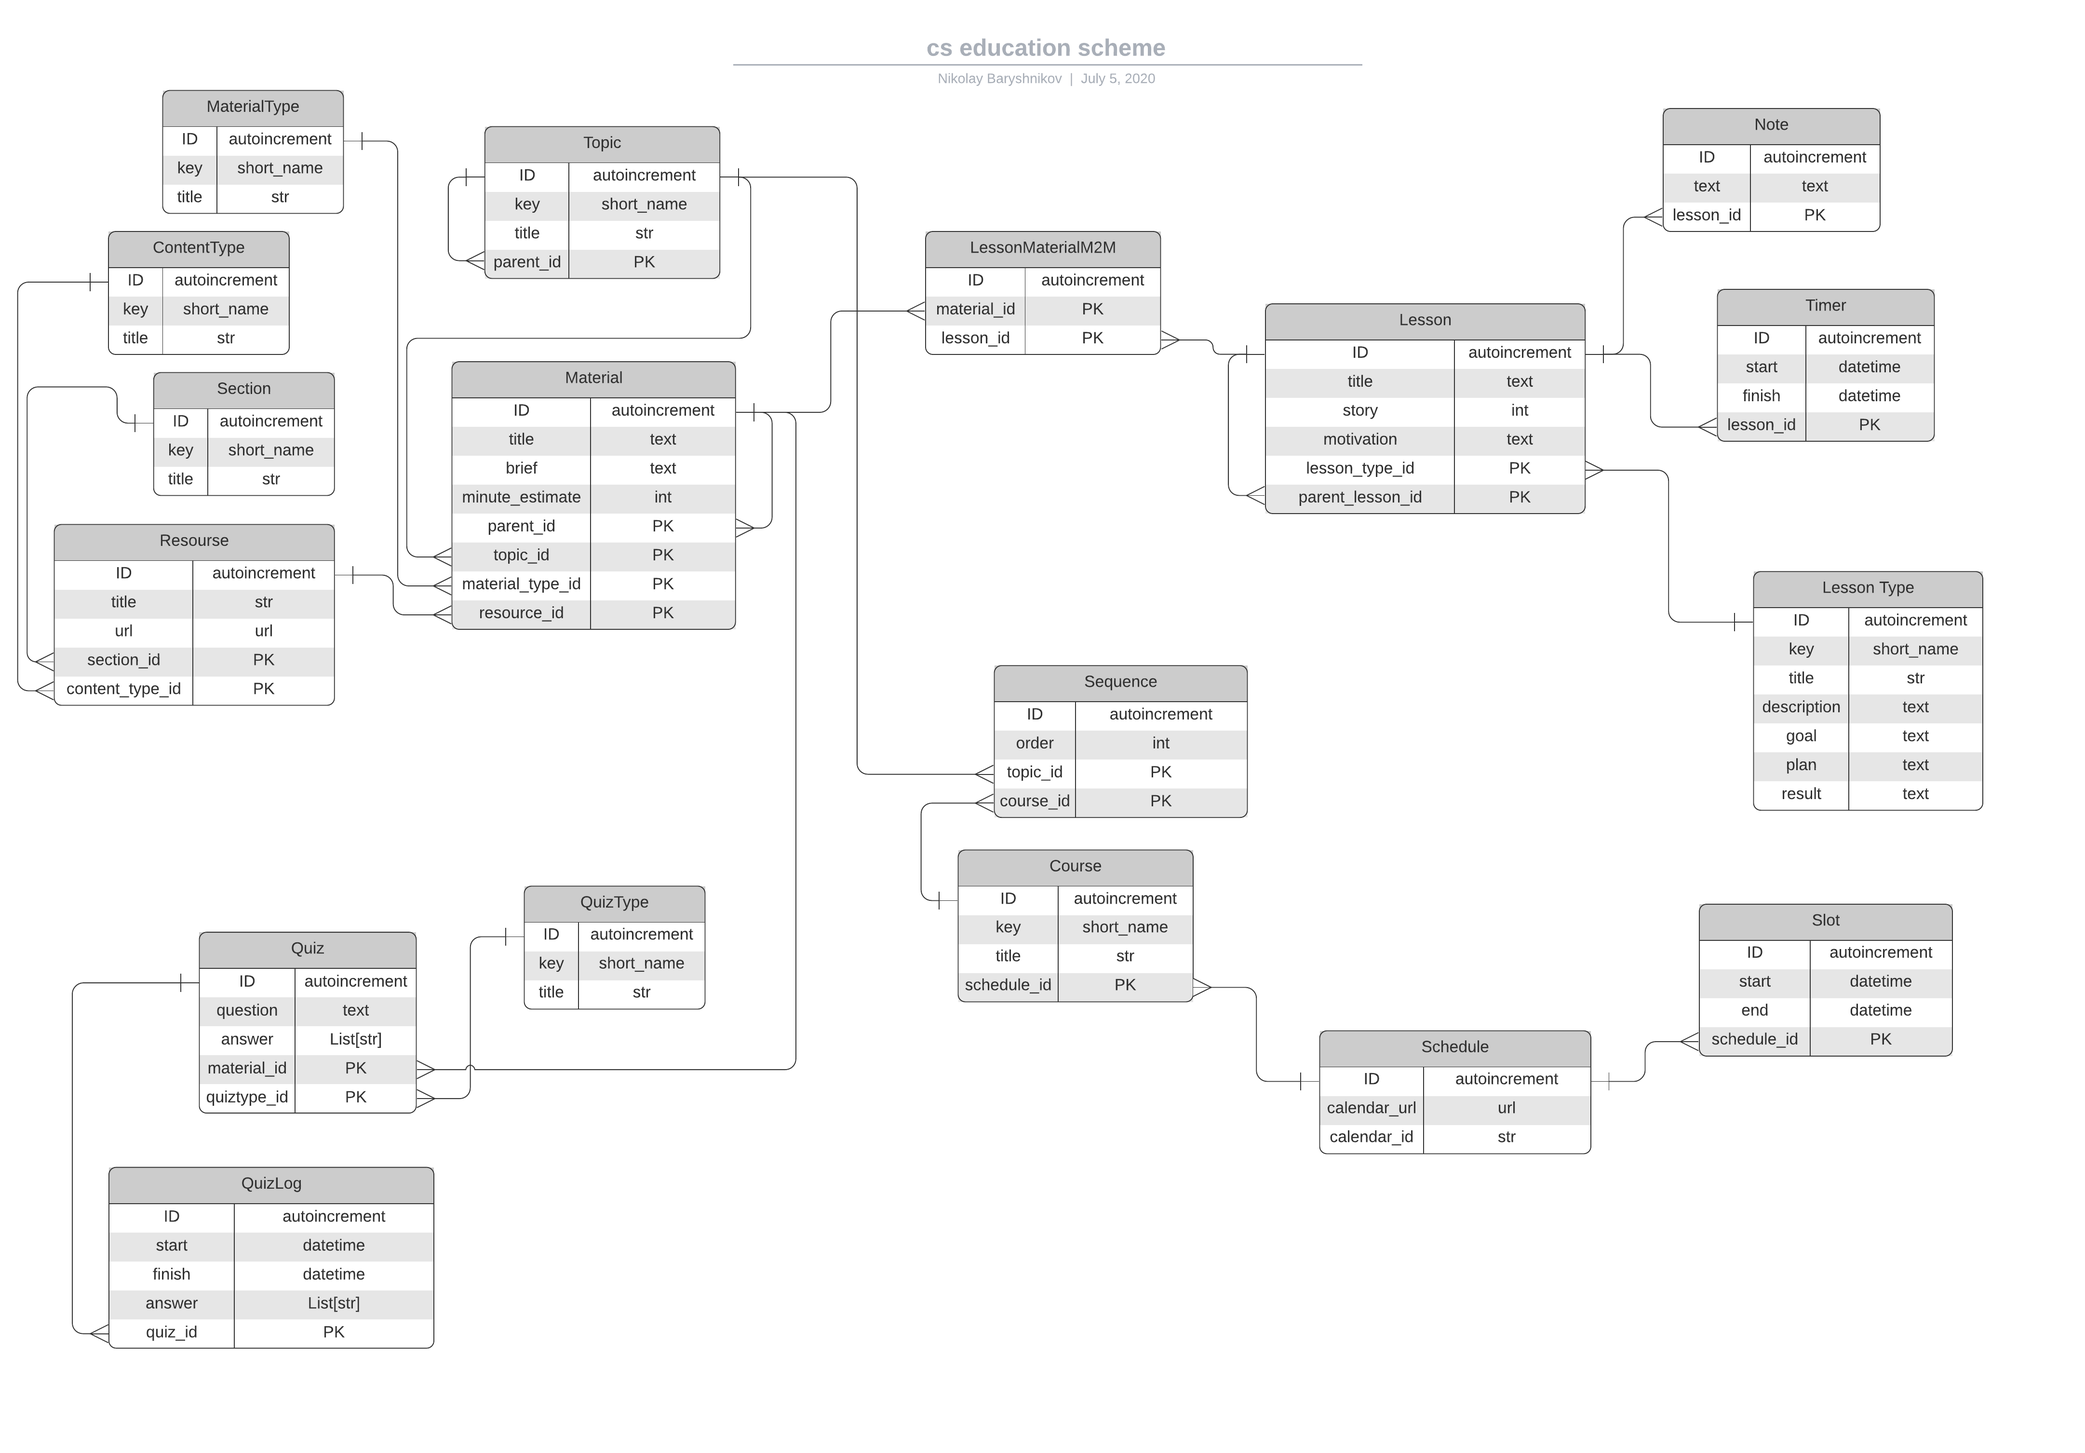
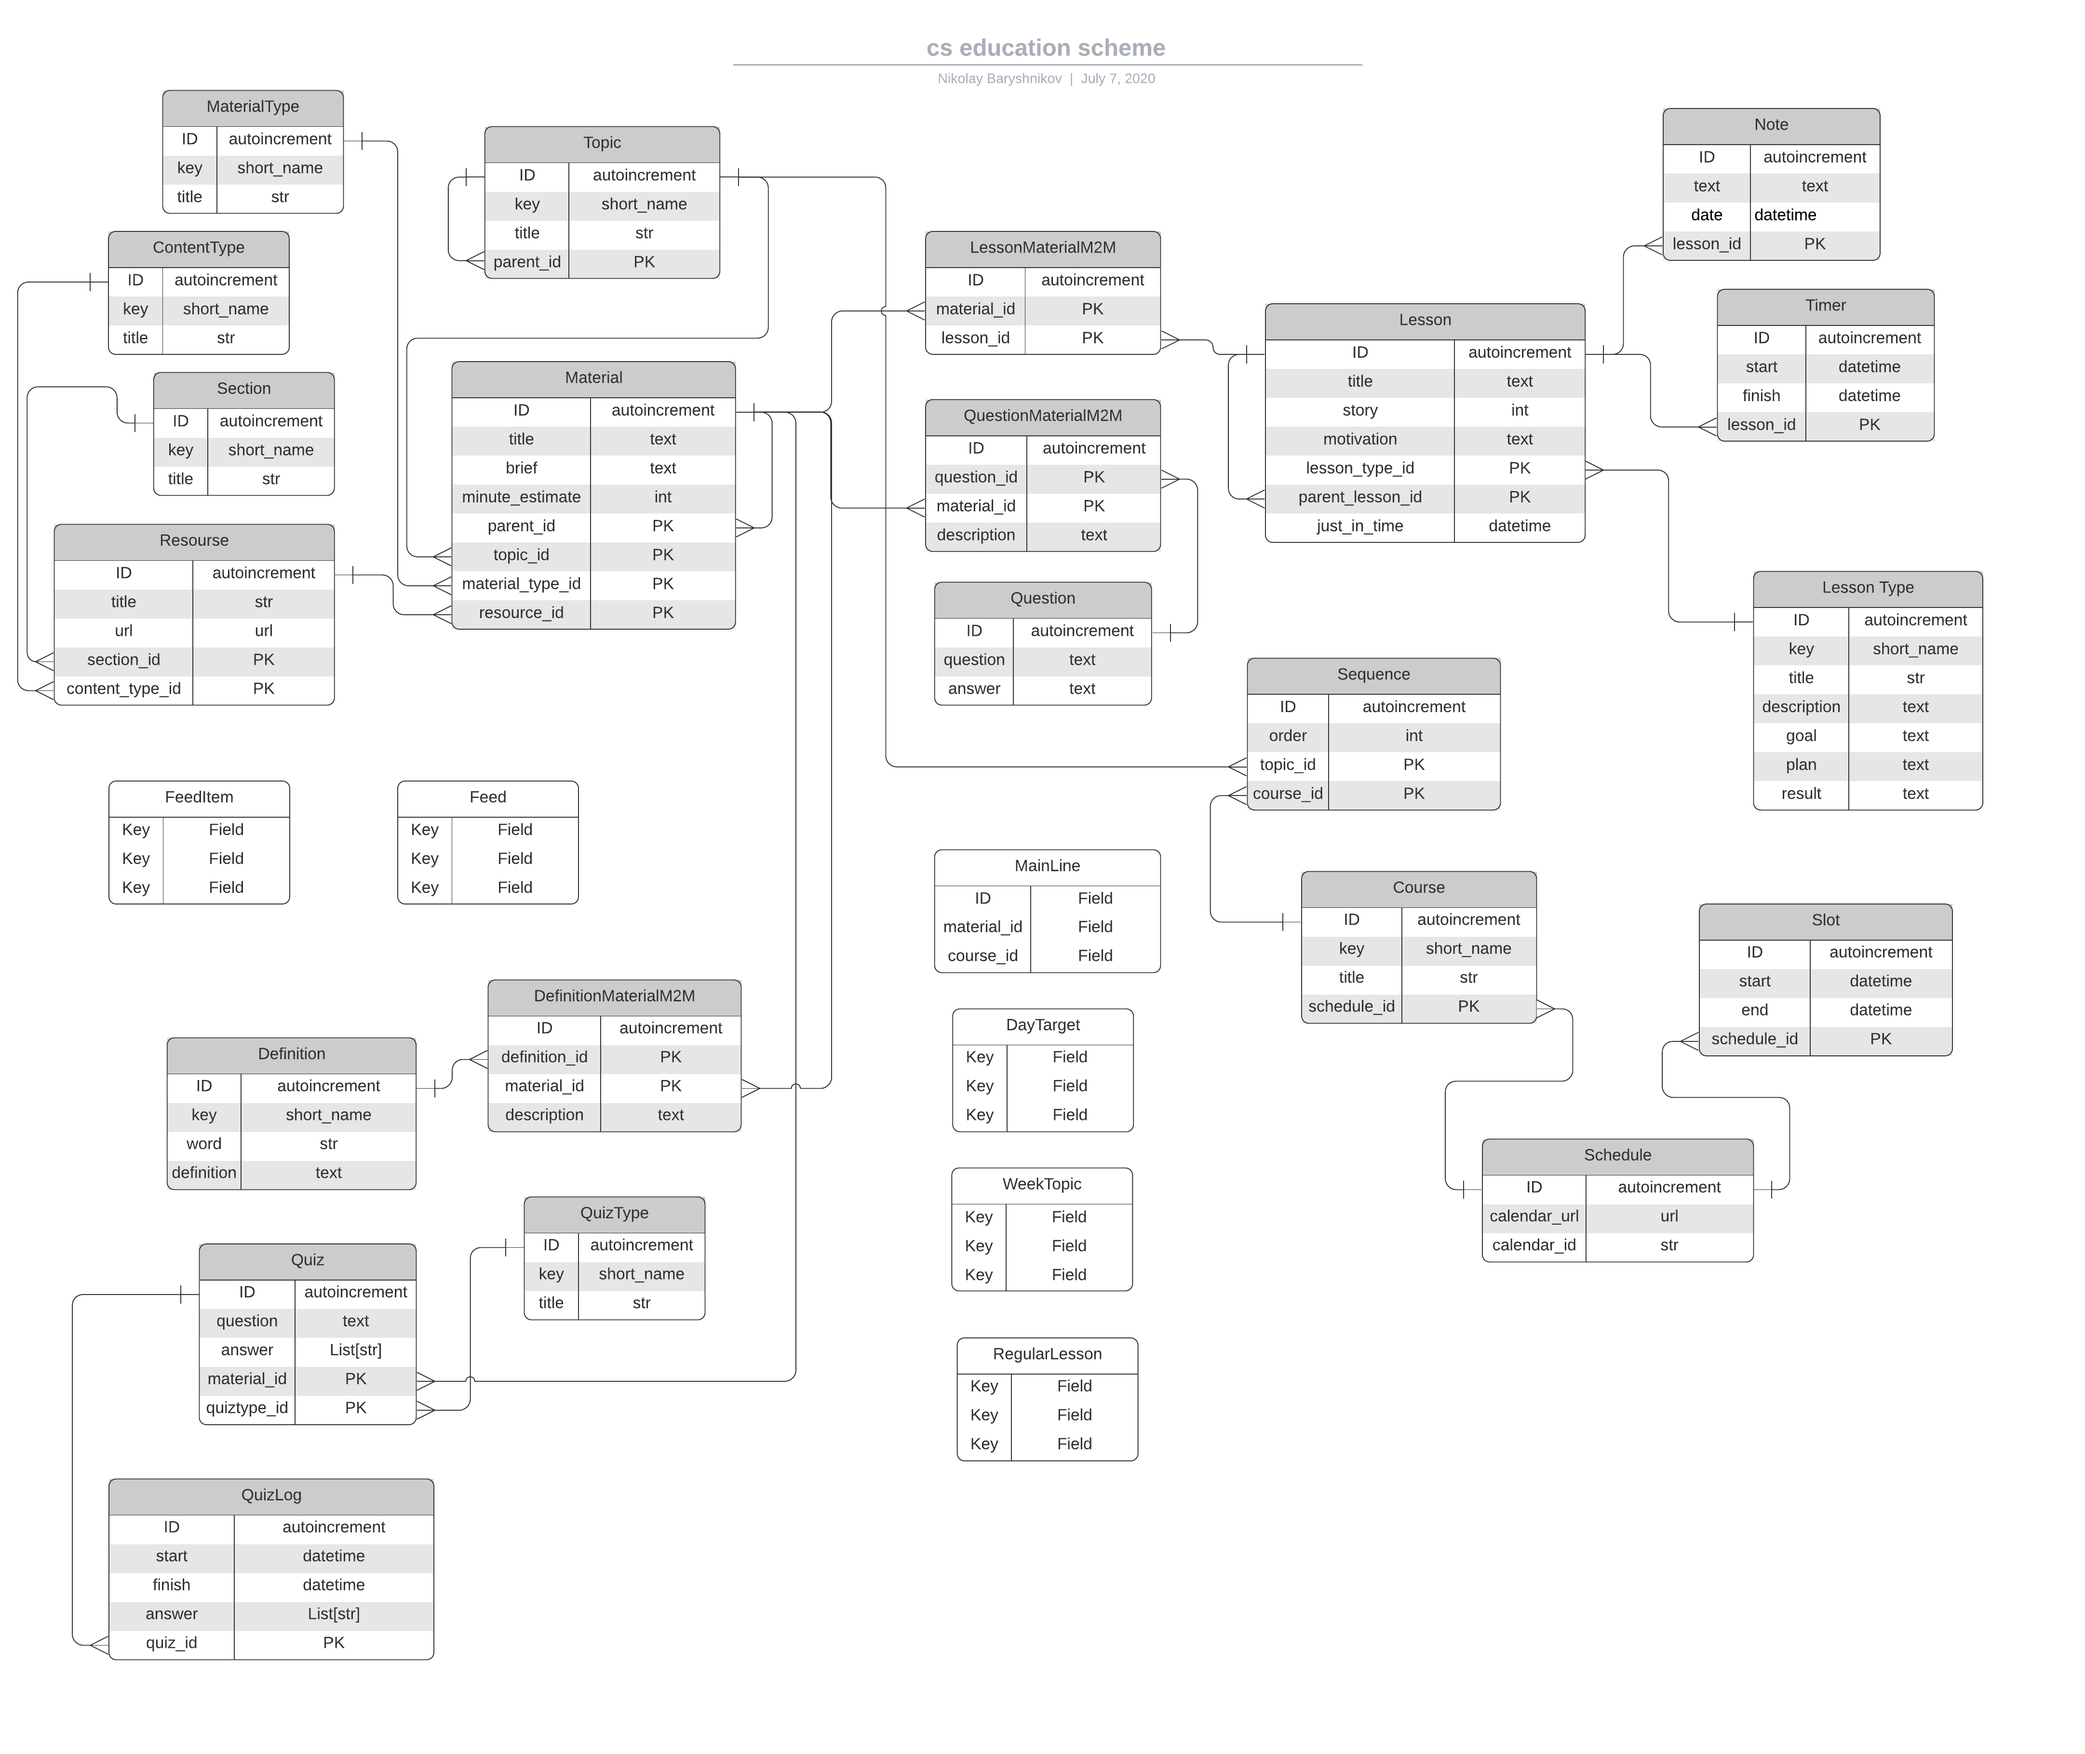
Новые объекты

diff --git a/cli/README.md b/cli/README.md
@@ -64,6 +64,8 @@
 - Мастер-класс
 - Экскурсия
 - Презентация
+- Короткая практическая задача
+
 
 ## Курс
 Объект, содержащий информацию о последовательности тем 
@@ -79,6 +81,13 @@
 1. Получает информацию из календаря о доступных слотах
 2. Следит за своевременным исполнением квизов
 3. Если квиз выполнен не правильно, переформировывает по нему расписание
+
+
+## Определение
+
+## Вопрос
+
+## Лента
 
 
 ## Схема данных
